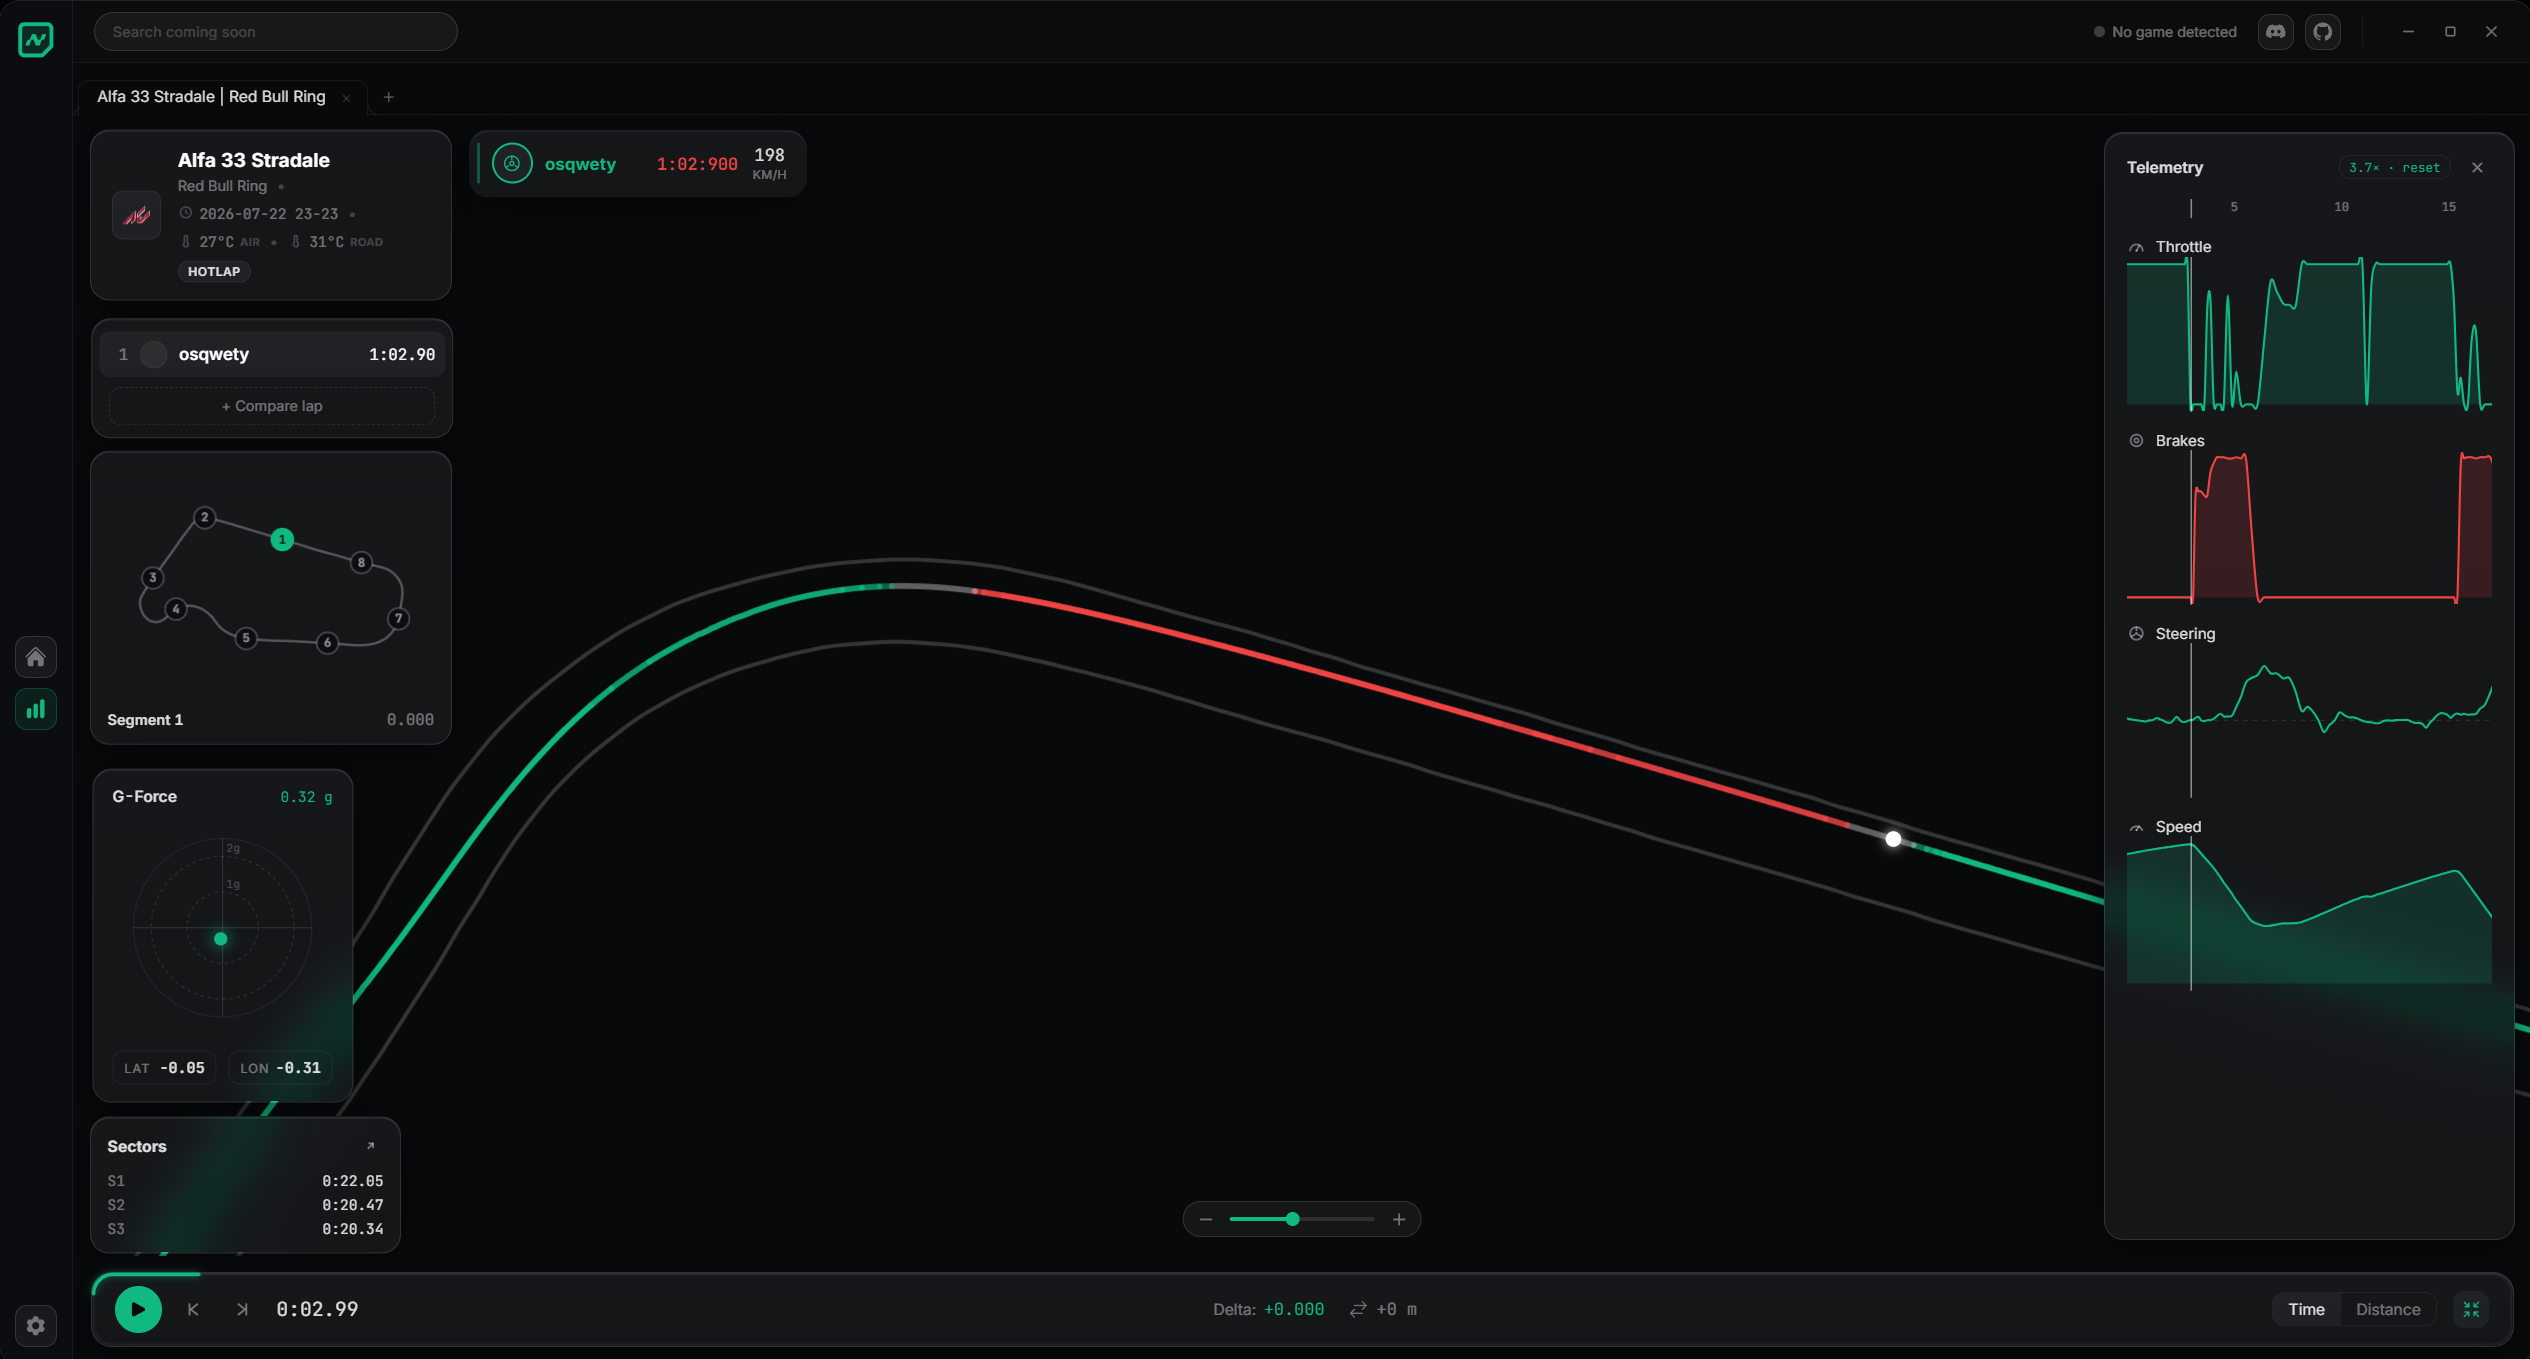
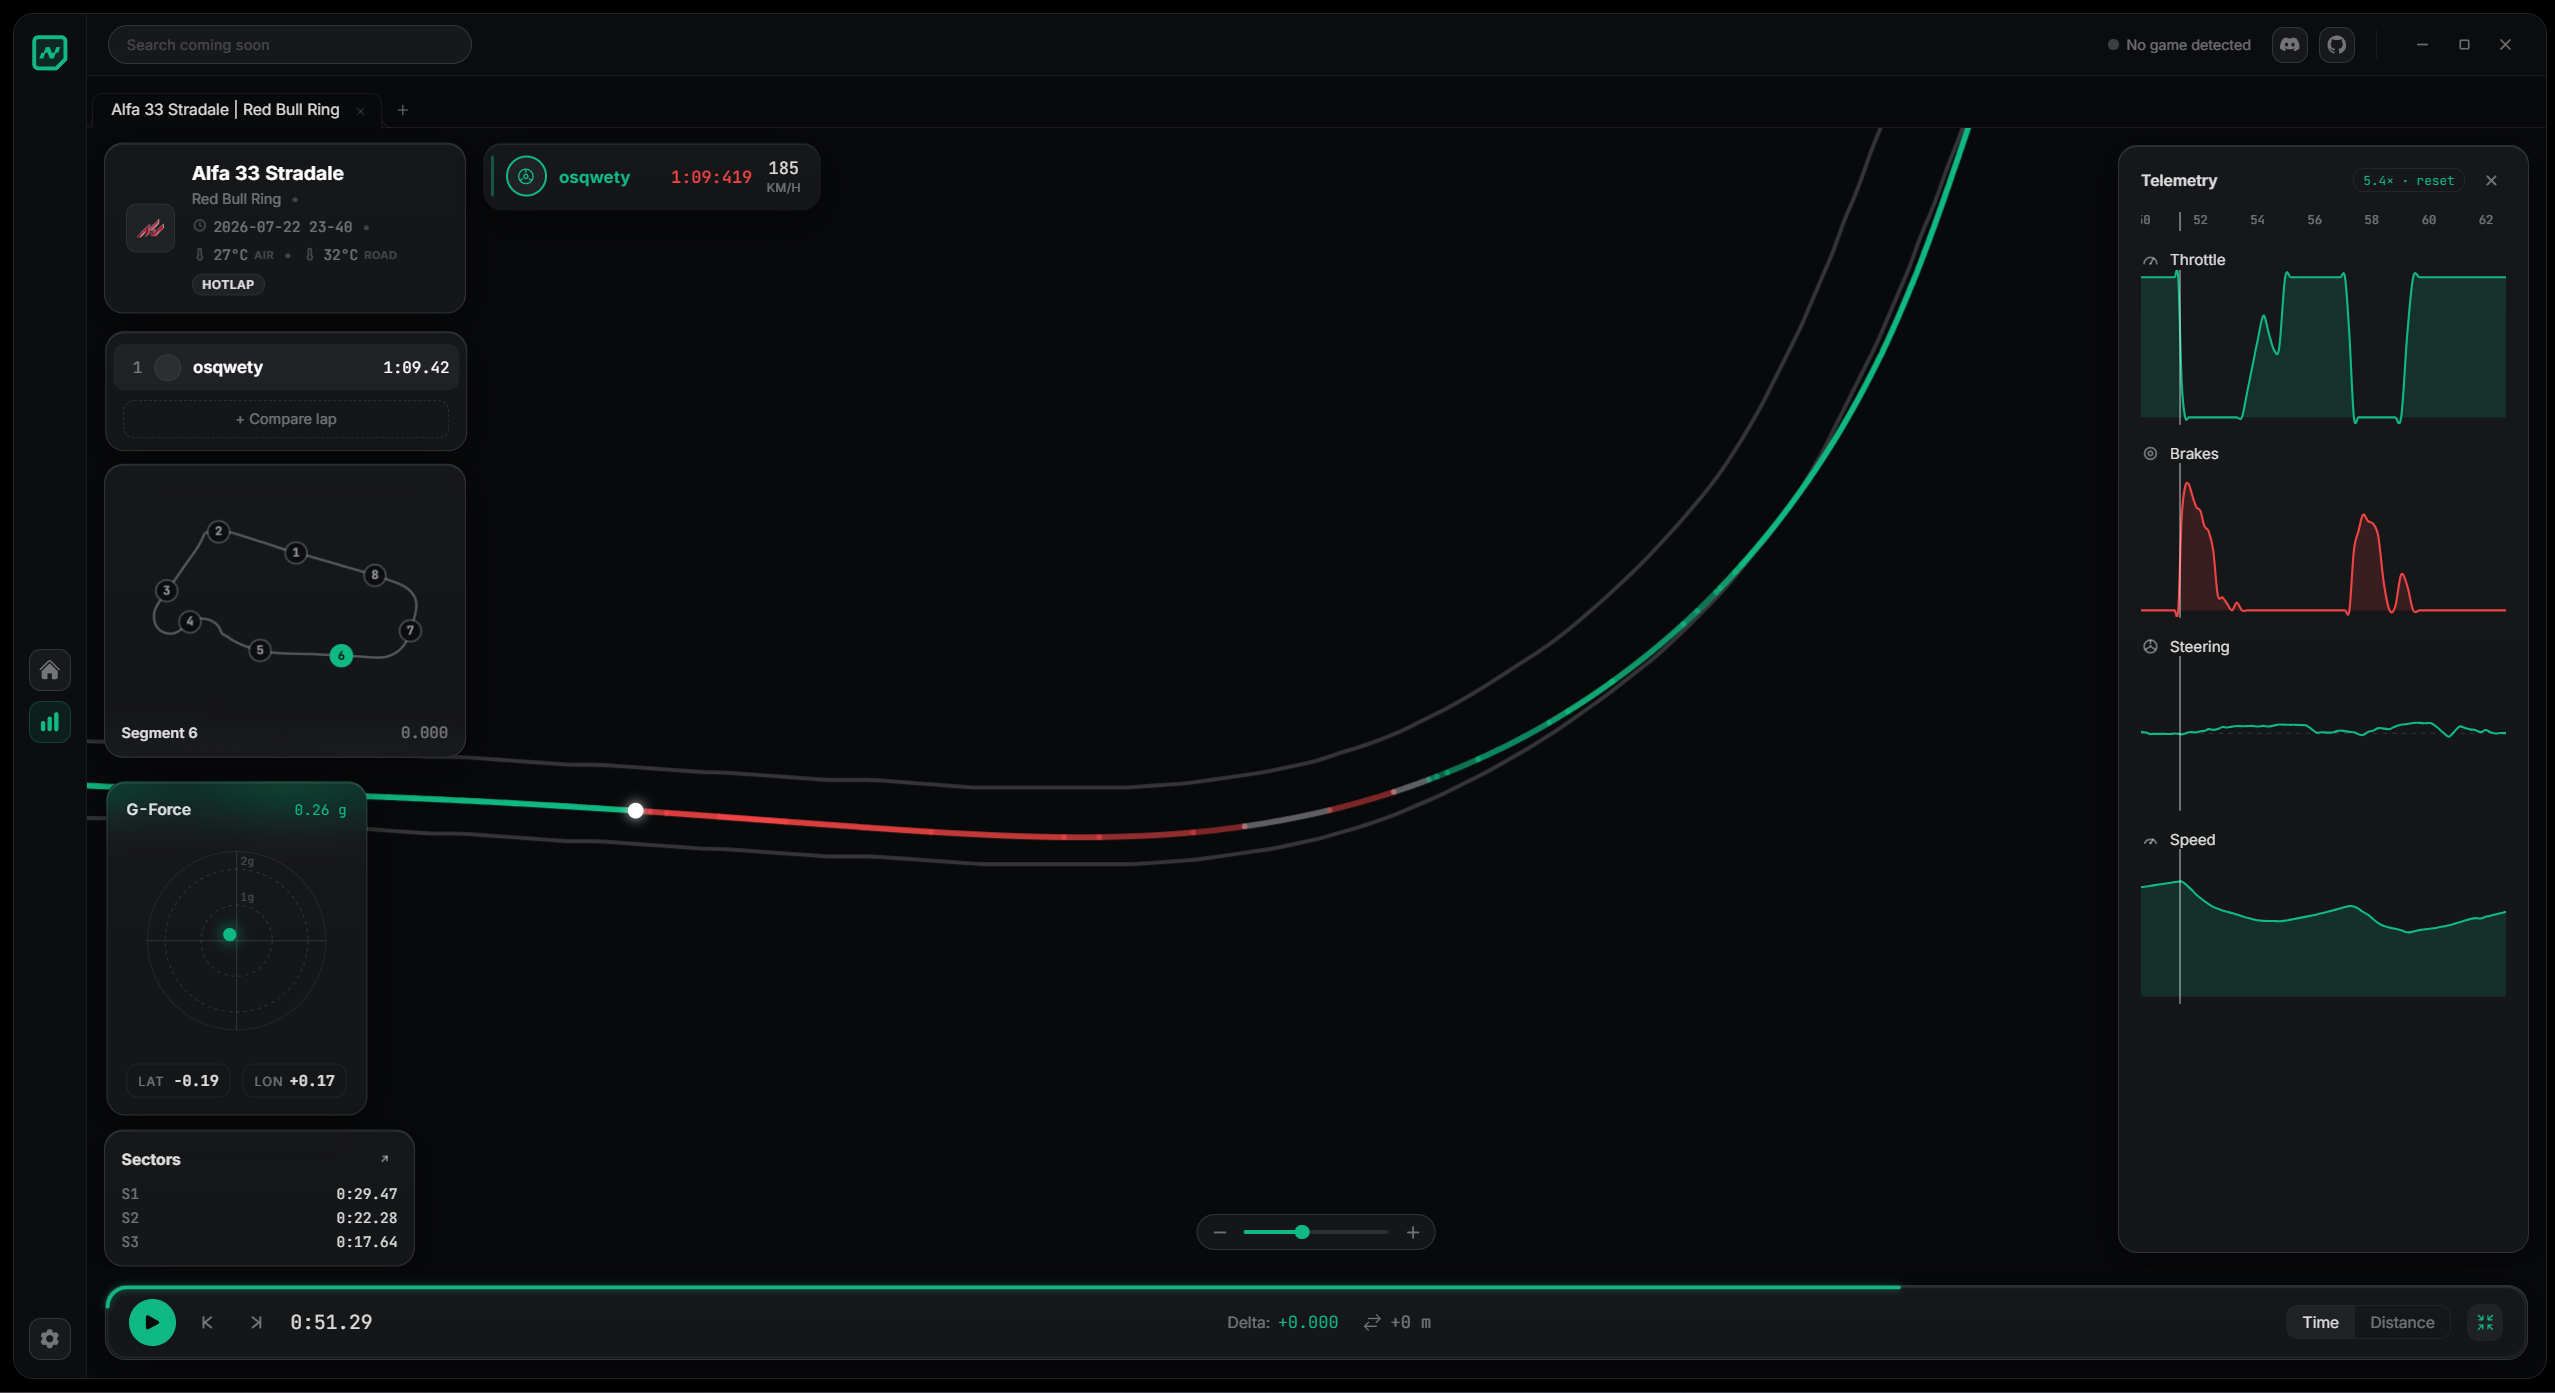
fix: readme

diff --git a/README.md b/README.md
@@ -2,8 +2,6 @@
 
 <img src="docs/banner.svg" alt="Novent" width="100%" />
 
-A sim-racing telemetry companion for Assetto Corsa.
-
 
 
 </div>
@@ -33,8 +31,7 @@ Novent detects your session, records every lap automatically, and turns the data
 
 ## Requirements
 
-- **Windows** with [Assetto Corsa](https://store.steampowered.com/app/244210/Assetto_Corsa/) installed
-- Point Novent at your AC install folder in **Settings → Game Detection** (used for track boundaries and car models)
+- Point Novent at your game root folder in **Settings → Game Detection** (used for track boundaries and car models)
 
 ---
 
